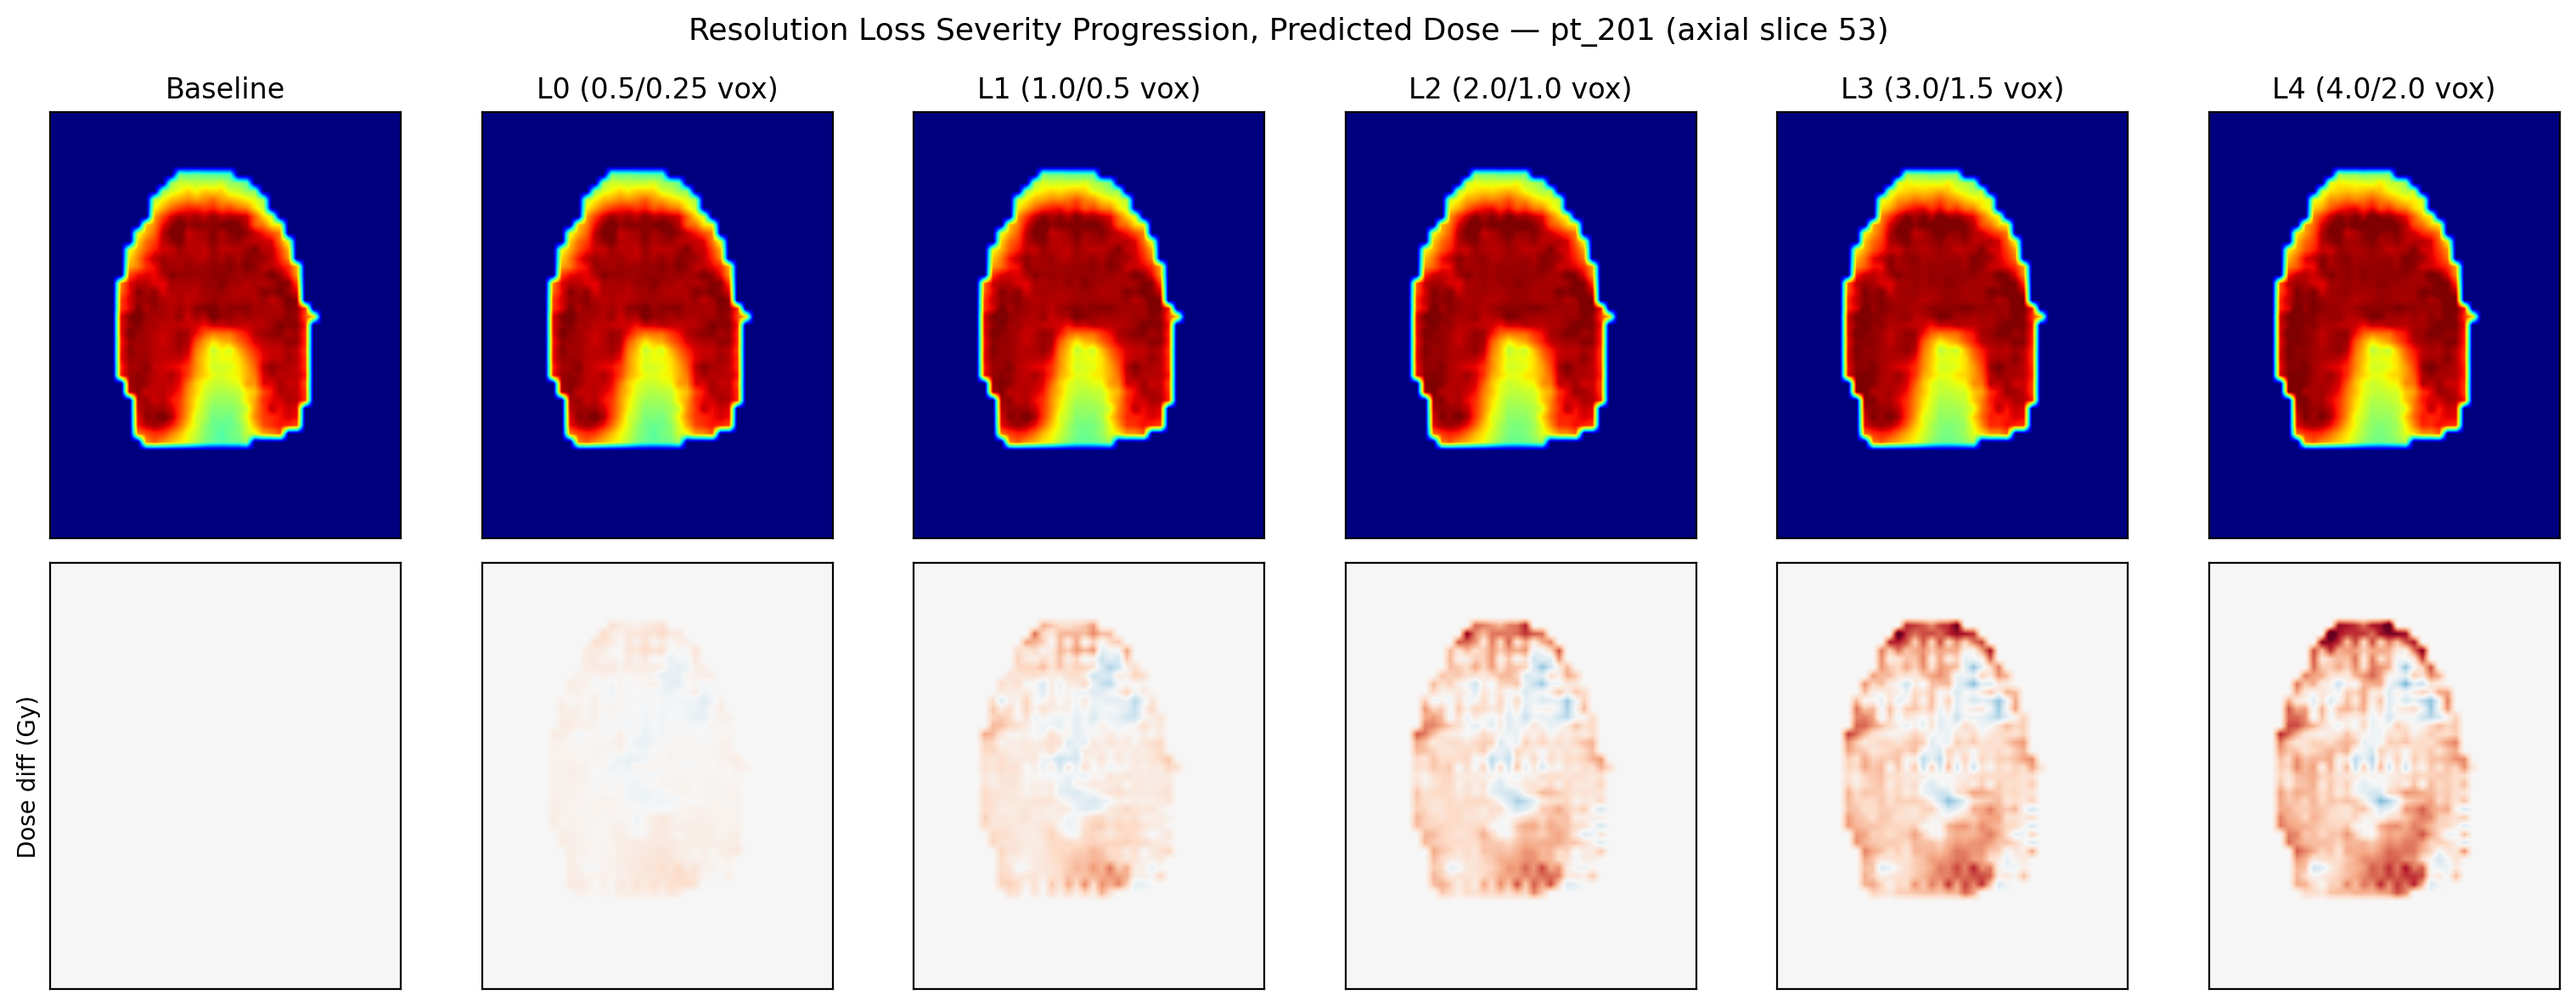
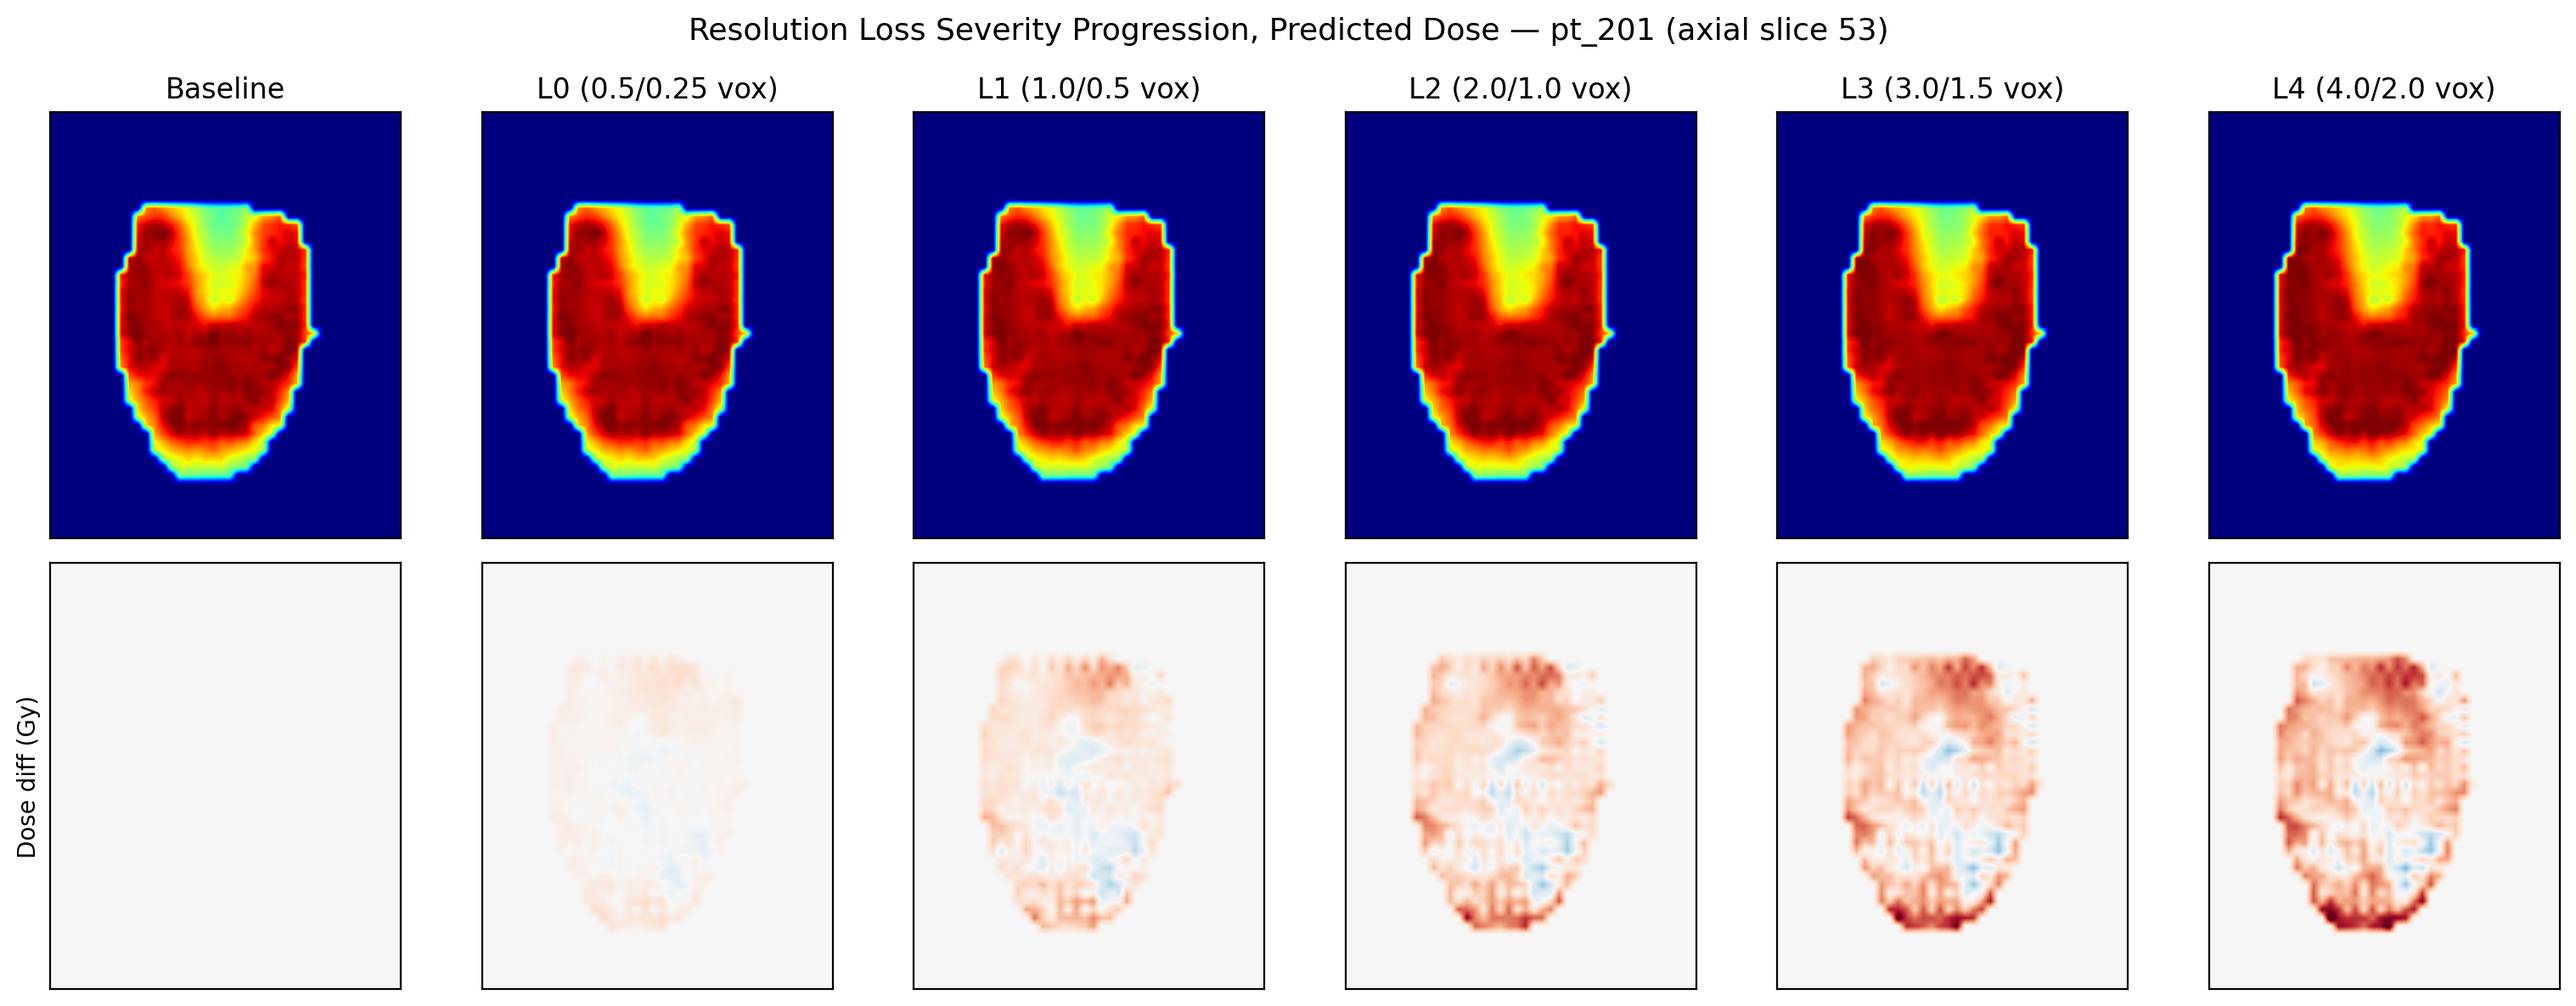
ASTRO package: flip axial panels 180 in y (Birjoo), exact author block, AAPM voice reference, severity explanation
- All four axial CT/dose figures regenerated with anterior pointing down
- AAPM_POSTER_TEXT.md added: full prior-poster text as the style/voice reference
- README: exact submitted author/affiliation block, plain-language explanation of
  perturbation families and severity levels, locked-abstract note

diff --git a/reports/report2_ct_perturbation/astro_poster/regen_axial_figures.py b/reports/report2_ct_perturbation/astro_poster/regen_axial_figures.py
@@ -25,7 +25,7 @@ WIN_LO, WIN_HI = 40.0 - 200.0, 40.0 + 200.0        # soft-tissue window (true HU
 FAMILIES = [("P1_noise", "Acq. Noise"), ("P2_bone_shift", "Bone Shift"),
             ("P3_bias_field", "Bias Field"), ("P4_resolution", "Resolution"),
             ("P5_dental", "Dental Art.")]
-OUT = "/tmp"
+OUT = os.path.dirname(os.path.abspath(__file__))
 
 
 def load_vol(path):
@@ -69,10 +69,9 @@ def main():
     h0, h1 = max(xs.min() - mg, 0), min(xs.max() + mg + 1, body.shape[1])
     crop = lambda a: a[d0:d1, h0:h1]
     hu = lambda a: crop(ax(a)) - HU_OFFSET              # display in true HU
-    # Conventional radiological AXIAL orientation: rows = A-P (anterior at top, since mandible sits
-    # at low axis0 and cord at high axis0), cols = L-R (patient-left at right, parotid geometry).
-    # No transpose (the adversarial code's img.T rotated the axial plane 90°, which read as coronal).
-    show = lambda axi, img, **kw: axi.imshow(img, origin="upper", interpolation="bilinear", **kw)
+    # Presenter request (Birjoo, 2026-09-22): flip 180 in y — anterior points down.
+    show = lambda axi, img, **kw: axi.imshow(np.flipud(np.asarray(img)), origin="upper",
+                                             interpolation="bilinear", **kw)
     body_c = crop(body).astype(float)
 
     # ---- CT slices ----
@@ -82,7 +81,7 @@ def main():
     A[0, 0].set_title("Original"); A[1, 0].set_ylabel("Difference (HU)")
     for r in (0, 1):
         A[r, 0].set_xticks([]); A[r, 0].set_yticks([])
-    A[1, 0].imshow(np.zeros_like(hu(base_ct)), origin="upper", cmap="seismic", vmin=-80, vmax=80)
+    show(A[1, 0], np.zeros_like(hu(base_ct)), cmap="seismic", vmin=-80, vmax=80)
     for i, (fam, lab) in enumerate(FAMILIES):
         c = i + 1
         pv = load_vol(f"{PERT}/{fam}/{LEVEL}/{PID}/ct.csv")
@@ -104,7 +103,7 @@ def main():
     A[0, 0].set_title("Baseline"); A[1, 0].set_ylabel("Dose diff (Gy)")
     for r in (0, 1):
         A[r, 0].set_xticks([]); A[r, 0].set_yticks([])
-    A[1, 0].imshow(np.zeros_like(doseax(base_dose)), origin="upper", cmap="RdBu_r", vmin=-5, vmax=5)
+    show(A[1, 0], np.zeros_like(doseax(base_dose)), cmap="RdBu_r", vmin=-5, vmax=5)
     for i, (fam, lab) in enumerate(FAMILIES):
         c = i + 1
         pdose = load_vol(f"{PRED}/{fam}/{LEVEL}/{PID}.csv")

diff --git a/reports/report2_ct_perturbation/astro_poster/regen_p4_progression_axial.py b/reports/report2_ct_perturbation/astro_poster/regen_p4_progression_axial.py
@@ -60,7 +60,9 @@ def main():
     h0, h1 = max(xs.min() - mg, 0), min(xs.max() + mg + 1, body.shape[1])
     crop = lambda a: a[d0:d1, h0:h1]
     hu = lambda a: crop(ax(a)) - HU_OFFSET
-    show = lambda axi, img, **kw: axi.imshow(img, origin="upper", interpolation="bilinear", **kw)
+    # Presenter request (Birjoo, 2026-09-22): flip 180 in y — anterior points down
+    show = lambda axi, img, **kw: axi.imshow(np.flipud(np.asarray(img)), origin="upper",
+                                             interpolation="bilinear", **kw)
     body_c = crop(body).astype(float)
 
     # ---- CT progression: baseline + P4 L0..L4 (top), CT difference (bottom) ----
@@ -69,7 +71,7 @@ def main():
     show(A[0, 0], hu(base_ct), cmap="gray", vmin=WIN_LO, vmax=WIN_HI)
     A[0, 0].set_title("Original")
     A[1, 0].set_ylabel("Difference (HU)")
-    A[1, 0].imshow(np.zeros_like(hu(base_ct)), origin="upper", cmap="seismic", vmin=-120, vmax=120)
+    show(A[1, 0], np.zeros_like(hu(base_ct)), cmap="seismic", vmin=-120, vmax=120)
     for r in (0, 1):
         A[r, 0].set_xticks([]); A[r, 0].set_yticks([])
     for i, (lev, par) in enumerate(zip(LEVELS, LEVEL_PARAMS)):
@@ -92,7 +94,7 @@ def main():
     show(A[0, 0], doseax(base_dose), cmap="jet", vmin=0, vmax=dmax)
     A[0, 0].set_title("Baseline")
     A[1, 0].set_ylabel("Dose diff (Gy)")
-    A[1, 0].imshow(np.zeros_like(doseax(base_dose)), origin="upper", cmap="RdBu_r", vmin=-5, vmax=5)
+    show(A[1, 0], np.zeros_like(doseax(base_dose)), cmap="RdBu_r", vmin=-5, vmax=5)
     for r in (0, 1):
         A[r, 0].set_xticks([]); A[r, 0].set_yticks([])
     for i, (lev, par) in enumerate(zip(LEVELS, LEVEL_PARAMS)):

diff --git a/reports/report2_ct_perturbation/astro_poster/AAPM_POSTER_TEXT.md b/reports/report2_ct_perturbation/astro_poster/AAPM_POSTER_TEXT.md
@@ -1,0 +1,85 @@
+# Prior AAPM poster text (style and language reference)
+
+This is the full text of the group's prior AAPM poster, "Adversarial Robustness Evaluation of AI
+Based Dose Prediction Models Using Clinical DVH Metrics" (Chowdhury, Tripathi, Ren, Sawant, Liao,
+Vaishnav). The presenter wants the ASTRO poster written in the same voice, tone, and section
+structure. The one substantive difference: the perturbations are now clinically realistic physical
+models of CT variability (noise, calibration, bias field, resolution, dental artifact) rather than
+adversarial attacks. The AAPM poster's future-work line explicitly announces this ASTRO study.
+
+## ABSTRACT
+Deep learning based dose prediction models are increasingly used in radiotherapy, yet their
+robustness to input uncertainty remains poorly understood. We developed a framework to evaluate 3D
+head-and-neck dose prediction models by applying controlled adversarial perturbations to CT images
+and assessing changes in clinically relevant dose-volume metrics. Results demonstrated measurable
+degradation in target coverage and organ-at-risk sparing, even for small perturbations, with
+effects increasing systematically as perturbation magnitude increased. These findings highlight the
+importance of incorporating robustness testing and uncertainty assessment into the development and
+clinical evaluation of AI-based dose prediction models.
+
+## INTRODUCTION
+Deep learning based treatment planning models are increasingly being deployed clinically, yet their
+evaluation is typically limited to prediction accuracy under standard test conditions.
+Consequently, model robustness to input variability and uncertainty remains poorly understood.
+Accuracy-based assessments may overlook vulnerabilities that can affect clinically relevant
+outputs. To stress-test model performance, we apply FGSM and PGD adversarial perturbations to CT
+inputs. These methods generate small, targeted input changes designed to maximize output
+deviations, enabling systematic evaluation of robustness and model sensitivity.
+
+## METHODS AND MATERIALS
+Data set: Our framework is created using the Open Knowledge-Based Planning (OpenKBP) dataset, a
+publicly available benchmark for radiotherapy dose prediction. 340 Head and Neck Patients.
+Anonymized CT Images with PTV and OAR Contours. 70/63/56 Gy Prescriptions. Organs at Risk
+contoured: Brainstem, Spinal Cord, Parotids, Larynx, Mandible, Esophagus.
+
+Dose Prediction Model: 3D U-Net architecture. Data split: 200 training, 40 validation, 100 test
+plans. Encoder-decoder network with skip connections. Inputs: CT image plus structure masks.
+Output: voxel-wise 3D dose distribution. Trained using mean squared error loss between predicted
+and clinical dose maps.
+
+Adversarial perturbation model: Adversarial perturbations in test input data are optimized to
+maximally impact model output.
+
+## RESULTS
+Measurable dosimetric changes were observed even at the smallest perturbation level (epsilon =
+0.001), with decreases in PTV coverage metrics and increases in hotspot metrics. Increasing
+perturbation magnitude produced progressive degradation in target coverage, with D95 reductions
+reaching 6-9% at epsilon = 0.01 and exceeding 15% at epsilon = 0.05. OAR endpoints demonstrated
+similar sensitivity, with notable increases in D0.1cc, V30, and V50, indicating reduced sparing
+robustness at higher perturbation levels. Both FGSM and PGD attacks resulted in increasing
+prediction error and performance degradation as epsilon increased, with PGD consistently producing
+larger effects than FGSM. The greatest degradation occurred at the highest perturbation magnitudes,
+demonstrating that deep learning dose prediction models are vulnerable to structured input
+perturbations. Key Finding: Small CT intensity perturbations can lead to clinically meaningful
+changes in predicted dose distributions despite strong baseline model performance.
+
+## DISCUSSION
+Deep learning dose prediction models demonstrated increasing sensitivity to CT perturbations as
+adversarial magnitude increased. While overall prediction accuracy remained acceptable under
+nominal conditions, clinically relevant DVH metrics showed measurable degradation even at small
+perturbation levels. PGD attacks produced greater degradation than FGSM attacks, suggesting that
+iterative perturbations more effectively exploit vulnerabilities in the learned dose mapping. These
+findings indicate that conventional accuracy metrics alone may not adequately characterize model
+reliability and that robustness testing can reveal important failure modes not observed during
+standard validation.
+
+## CONCLUSIONS
+We adopted adversarial perturbation as a diagnostic tool for robustness of AI models in
+radiotherapeutic dose prediction. From this study few key points emerge relevant to clinical
+practice. Accurate AI models are not necessarily robust AI models. Small CT perturbations can
+produce measurable dosimetric changes. Robustness testing can identify vulnerabilities not captured
+by standard validation. Incorporating robustness evaluation may improve confidence in clinical
+deployment of AI-based planning tools.
+
+## FUTURE WORK
+The noise models in this work may not represent actual physical noise, impact of which will be
+presented in ASTRO 2026 as a poster presentation.
+
+## REFERENCES
+1. Babier A, Mahon R, McNiven A, Diamant A, Chan TCY. Med Phys. 2021;48:4932-4948.
+2. Ronneberger O, Fischer P, Brox T. MICCAI. 2015;234-241.
+3. Goodfellow IJ, Shlens J, Szegedy C. ICLR. 2015.
+
+## CONTACT
+Birjoo Vaishnav, PhD, DABR. University of Maryland School of Medicine, Baltimore MD.
+bvaishnav@som.umaryland.edu. 410-427-2039 (o).

diff --git a/reports/report2_ct_perturbation/astro_poster/README.md b/reports/report2_ct_perturbation/astro_poster/README.md
@@ -21,13 +21,25 @@ is required. Read section 0 first. Do not use em dashes anywhere in the poster t
    cross-sections, already verified. See section 6.
 7. Language must be formal and scientific. No em dashes. Use commas, periods, or parentheses.
 8. No vendor or commercial names anywhere (ACCME rule).
+9. Voice and structure: reuse the language, tone, and section structure of the group's prior AAPM
+   poster (full text in `AAPM_POSTER_TEXT.md`). This ASTRO study is the follow-up announced in that
+   poster's future-work line; the only substantive change is that the perturbations are now
+   clinically realistic physical models of CT variability rather than adversarial attacks. Mirror
+   its phrasing patterns (for example the "Key Finding:" callout in Results and the short
+   declarative bullets in Conclusions).
+10. The poster must explain, in plain language, what a perturbation family and a severity level
+    are before presenting results. Use the explanation paragraph at the top of section 4 verbatim
+    or near-verbatim; do not assume the reader knows what "L2" or "severity" means.
 
 ## 1. Title, authors, contact
 - Official title (use verbatim): "Assessing the Generalizability and Robustness of Deep-Learning
   Dose Prediction in Head-and-Neck Radiotherapy to Clinically Realistic CT Perturbations"
-- Authors: Neil Tripathi (New York University); Rahim Chowdhury (UMD St. Joseph Medical Center);
-  Lei Ren, Amit Sawant, Birjoo Vaishnav (University of Maryland School of Medicine, Department of
-  Radiation Oncology). Presenter of record: Birjoo Vaishnav.
+- Author block (exact, from the submitted abstract; use verbatim):
+  N. Tripathi(1), R. Chowdhury(2), L. Ren(3), A. Sawant(3), and B. D. Vaishnav(3);
+  (1) Department of Computer Science, New York University, New York, NY;
+  (2) University of Maryland Medical System, St. Joseph Medical Center, Baltimore, MD;
+  (3) Department of Radiation Oncology, University of Maryland, School of Medicine, Baltimore, MD.
+  Presenter of record: Birjoo Vaishnav.
 - Contact: Birjoo Vaishnav, PhD, DABR, University of Maryland School of Medicine, Baltimore, MD.
 
 ## 2. Model and data
@@ -53,6 +65,19 @@ ranges meet or exceed ACR CT-simulation quality-assurance limits.
 - P5 dental streak artifact: radial metal streaks anchored to the mandible.
 
 ## 4. Severity quantification and what it means (put this on the poster as a panel)
+
+What a perturbation family and a severity level are (explain this on the poster before any
+results): Each perturbation family is a controlled physical model of one real-world source of CT
+image variability: quantum noise, scanner calibration drift, low-frequency shading, loss of spatial
+resolution, or dental metal artifact. Severity is the strength of that perturbation, expressed in
+physical units: Hounsfield units (HU) for the four intensity families, and voxels of Gaussian blur
+for spatial resolution. Each family is applied at five increasing severity levels. The levels are
+chosen so that the lowest fall within routine clinical variation, the middle levels approach the
+tolerance limits of the ACR CT quality assurance program, and the highest intentionally exceed
+anything expected in practice, in order to locate the point at which the model fails. Because every
+patient is compared against their own unperturbed prediction, the reported change isolates the
+effect of the image perturbation alone.
+
 For each level: the physical parameter, a plain-language equivalent, whether it is within the
 realistic clinical range, and the resulting DVH-score change (percent, cohort mean over 40 patients).
 
@@ -120,7 +145,9 @@ confirmed visually against `ct_orientation_xyz.png` (X is coronal, Y is sagittal
 CT and dose panels in this package (`ct_slices_axial.png`, `dose_difference_axial.png`,
 `p4_ct_progression.png`, `p4_dose_progression.png`) are true axial slices taken at the
 superior-inferior index with the largest planning-target-volume area (slice 53 for pt_201), cropped
-to the body, in conventional radiological orientation. No further orientation checking is needed.
+to the body. Per the presenter's request the panels are flipped 180 degrees in y (anterior points
+down, the mandible is at the bottom of each panel). Use them exactly as provided; no further
+orientation change is needed.
 
 ## 7. Figures in this package
 - `ct_orientation_xyz.png`: original CT sliced along X, Y, Z (orientation reference; Z is axial).
@@ -134,6 +161,14 @@ to the body, in conventional radiological orientation. No further orientation ch
 - `panel4_threshold_table.md`, `panel4_threshold_table.csv`: the threshold table.
 
 ## 8. Ready-to-paste poster text (formal, no em dashes)
+
+Note on the abstract: the officially submitted abstract is locked and publishes as submitted. It
+begins "Purpose/Objective(s): The primary goal of this work is to establish a framework for
+assessing the generalizability of a deep-learning dose prediction..." and was emailed by the
+presenter. If the full submitted abstract text is supplied alongside this package, use it verbatim
+for the ABSTRACT panel and use the text below for the remaining panels. Rewrite the panels below in
+the voice of `AAPM_POSTER_TEXT.md` (instruction 9 in section 0) while keeping every number
+unchanged.
 
 Purpose. Deep-learning dose prediction models are increasingly deployed across institutions, where
 they encounter CT images from different scanners, reconstruction kernels, and acquisition protocols.
